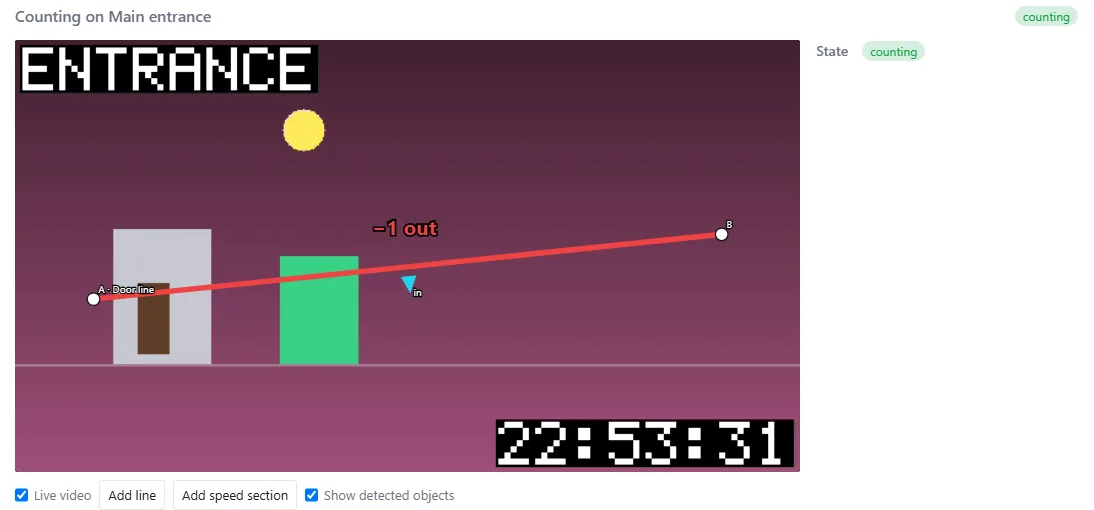
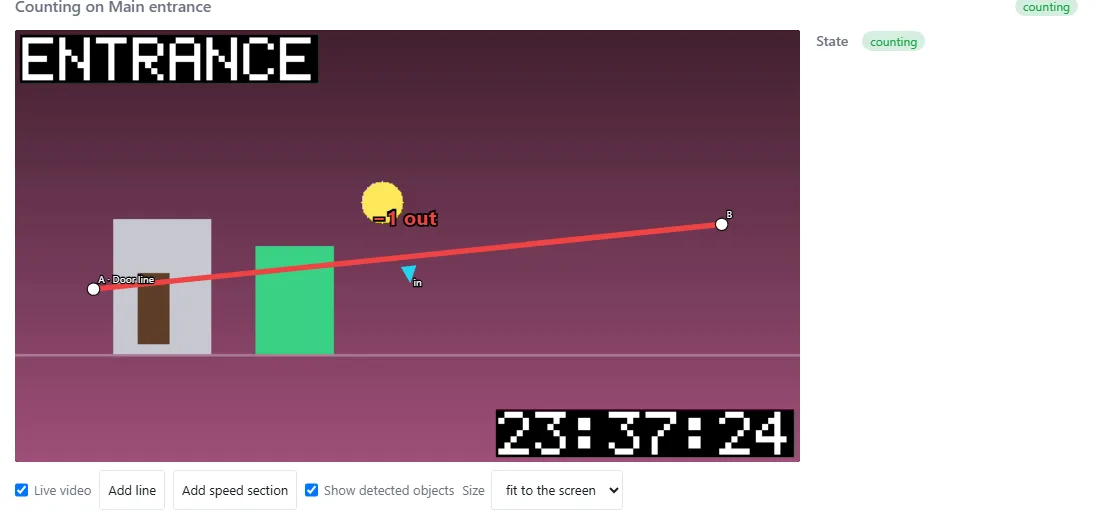
Object counting: picture size in the line editor

diff --git a/docs/telemetry/object-counting/cameras.md b/docs/telemetry/object-counting/cameras.md
@@ -25,7 +25,8 @@ and cameras at remote sites behind the [relay](../video-nvr/remote-sites.md). No
 
 1. The editor shows the **live video** of the camera's sub-stream (with the camera's privacy masks) and the lines on
    top of it; every crossing flashes its line (green in, red out). Switch off *Live video* to draw on a still picture
-   instead; *Refresh picture* then takes a new one. The choice is remembered in the browser.
+   instead; *Refresh picture* then takes a new one. *Size* makes the picture *small*, *fit to the screen* (the
+   default: the whole picture is visible without scrolling) or *full width*. Both choices are remembered in the browser.
 2. **Add line**, then click the start (A) and the end (B) of the line on the picture. Drag the white end points to
    move them.
 3. The **arrow** points into the area: crossing the line in the direction of the arrow counts **in**, against it
